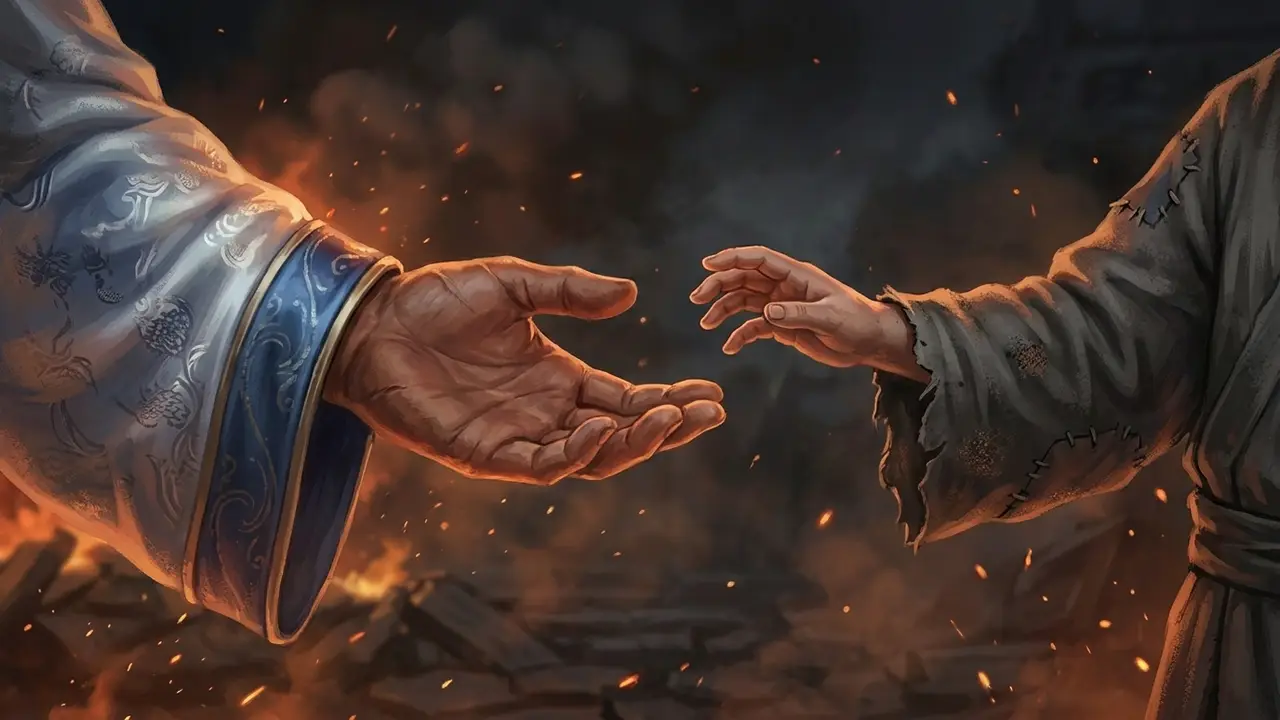
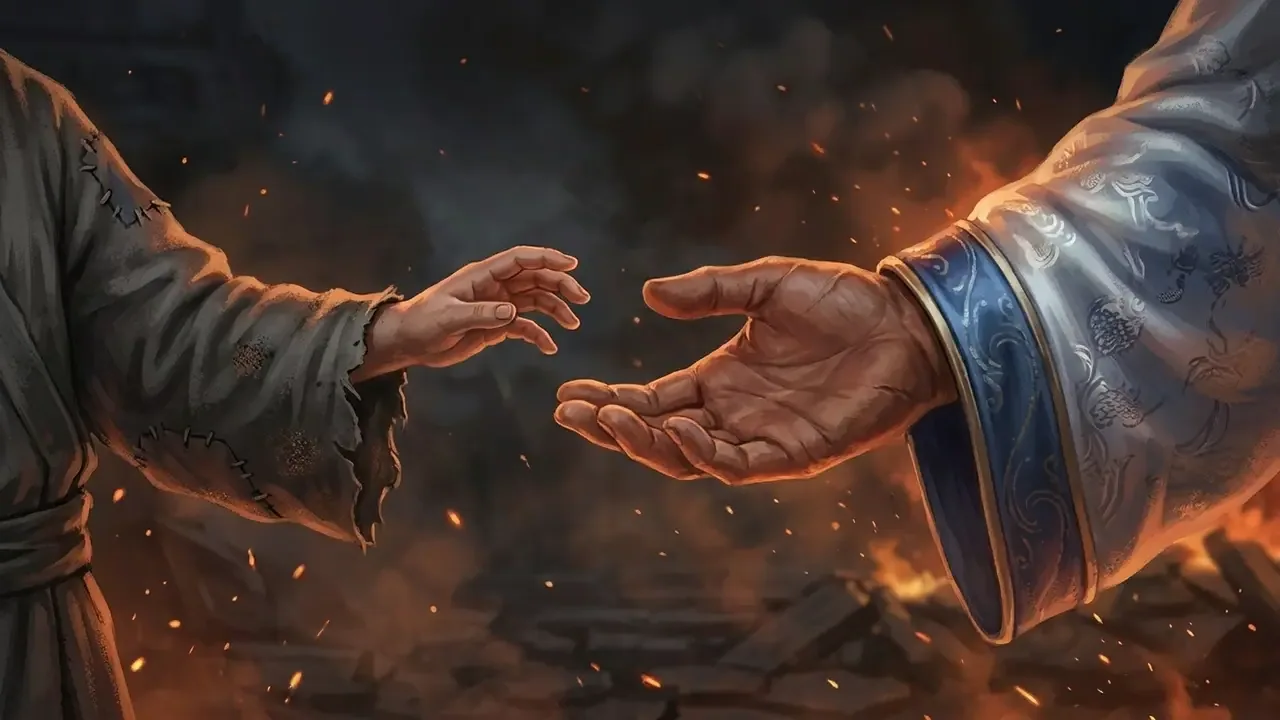
s3: mirror the 'Let me choose' still so Seo-yeon's hand is on the left, as in her other shots
Claude-Session: https://claude.ai/code/session_013zATb3SFEK42yB2pi5Tfdm

diff --git a/game/js/ch1.js b/game/js/ch1.js
@@ -333,7 +333,7 @@
   // What a phone held upright keeps in frame (js/vn.js, focus), as a percentage across the still; the rest are
   // centred. Each c still shares its shot's focus, so the glitch cut only changes the person.
   const FOCUS = { m1: 40, m2: 45, m2b: 48, m2c: 48, m3: 34, m3a: 55, m3c: 55, k1: 52, k2: 70, k2b: 48, k2c: 66, k3: 70,
-    k3a: 47, k3c: 47, s0a: 39, s0b: 73, s2: 46, s5: 79, s3: 57, s6: 23, s7a: 79, s7c: 79, d1: 40, d1b: 45, d1c: 45, d2: 42, d3: 36 };
+    k3a: 47, k3c: 47, s0a: 39, s0b: 73, s2: 46, s5: 79, s3: 43, s6: 23, s7a: 79, s7c: 79, d1: 40, d1b: 45, d1c: 45, d2: 42, d3: 36 };
   // Freya comes to Mira in a dream (the Story Bible), so her kitchen shots play through a dream haze.
   const DREAM = ['m3', 'm3a', 'm3c'];
   SD.vn.addScenes(Object.fromEntries(Object.entries(STILL).map(([id, label]) => [id, { src: 'assets/img/vn/' + id + '.webp', label,
